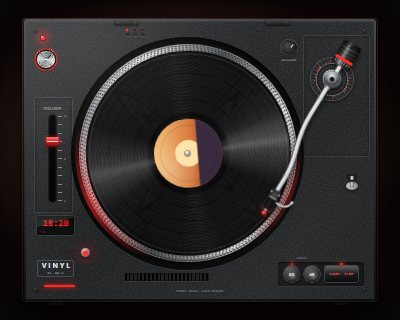
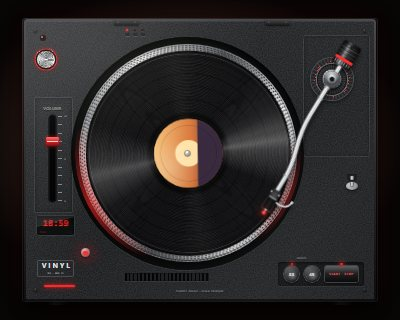
Sleep knob removed: the top-left knob is now the crackle switch with a centred pointer (right = off, left = on) and its lamp shows crackle on/off; tap the parked arm to continue the song; mouse: drag the record off the platter to skip

diff --git a/app.js b/app.js
@@ -313,7 +313,7 @@ async function swapRecord(track, resume) {
       await flight([{ transform: 'none', filter: 'none' },
         { transform: 'scale(1.07)', filter: LIFT, offset: .3 },
         { transform: 'translate(-168%, -8%) rotate(-12deg) scale(1.07)', filter: LIFT }], 950, 'cubic-bezier(.55,0,.75,.45)');
-      S.onPlatter = false; $('disc').classList.add('off'); stash(S.lastOn);
+      S.onPlatter = false; $('disc').classList.add('off'); $('disc').style.translate = ''; stash(S.lastOn);
       if (S.queued) continue; // skipped again while lifting: go straight to the newest record
     }
     await loadArt(t);
@@ -580,8 +580,7 @@ function tickSleepLeft() { // live countdown inside the menu
 }
 function closeSleepMenu() { $('sleepMenu').classList.add('hidden'); clearTimeout(openSleepMenu.t); clearInterval(openSleepMenu.i); }
 $('bTimer').onclick = e => { e.stopPropagation(); openSleepMenu($('bTimer')); };
-$('powerknob').onclick = e => { e.stopPropagation(); openSleepMenu($('powerknob')); };
-document.addEventListener('pointerdown', e => { if (!e.target.closest('#sleepMenu, #bTimer, #powerknob')) closeSleepMenu(); }, true);
+document.addEventListener('pointerdown', e => { if (!e.target.closest('#sleepMenu, #bTimer')) closeSleepMenu(); }, true);
 setInterval(() => { if (sleepAt && Date.now() > sleepAt) { sleepAt = 0; sleepMin = 0; document.documentElement.dataset.sleep = ''; $('bTimer').classList.remove('on'); if (isPlaying()) P.pause(); toast('Sleep timer: good night'); } }, 5000);
 
 /* ---------- tonearm: drag it across the record to jump within the song, or back to its rest to stop ---------- */
@@ -589,11 +588,11 @@ setInterval(() => { if (sleepAt && Date.now() > sleepAt) { sleepAt = 0; sleepMin
   const arm = $('tonearm'), V_ANG = Math.atan2(ARM.V[1], ARM.V[0]) * 180 / Math.PI;
   const angleAt = e => { const r = $('armbase').getBoundingClientRect();
     return clamp(Math.atan2(e.clientY - (r.top + r.height / 2), e.clientX - (r.left + r.width / 2)) * 180 / Math.PI - V_ANG, ARM.rest, ARM_IN + 1); };
-  let grabbed = false;
+  let grabbed = false, tap = null;
   arm.addEventListener('pointerdown', e => {
     if (S.swapping || S.cueing || !S.track) return;
-    e.stopPropagation(); e.preventDefault(); grabbed = true; S.dragging = true;
-    arm.classList.add('drag'); arm.setPointerCapture(e.pointerId); setArm(angleAt(e));
+    e.stopPropagation(); e.preventDefault(); grabbed = true; S.dragging = true; tap = { x: e.clientX, y: e.clientY, was: isPlaying() };
+    arm.classList.add('drag'); try { arm.setPointerCapture(e.pointerId); } catch {} setArm(angleAt(e));
   });
   arm.addEventListener('pointermove', e => {
     if (!grabbed) return; const a = angleAt(e); setArm(a);
@@ -601,6 +600,8 @@ setInterval(() => { if (sleepAt && Date.now() > sleepAt) { sleepAt = 0; sleepMin
   });
   const release = async e => {
     if (!grabbed) return; grabbed = false; arm.classList.remove('drag');
+    if (tap && !tap.was && Math.hypot(e.clientX - tap.x, e.clientY - tap.y) < 6) { // just a tap on the parked arm: continue where it stopped
+      S.dragging = false; renderPlaying(); togglePlay(); return; }
     const a = angleAt(e);
     if (a > ARM_OUT - 1.5) { // dropped on the record: jump there and play
       const ms = clamp((a - ARM_OUT) / (ARM_IN - ARM_OUT), 0, 1) * S.dur;
@@ -611,13 +612,33 @@ setInterval(() => { if (sleepAt && Date.now() > sleepAt) { sleepAt = 0; sleepMin
   arm.addEventListener('pointerup', release); arm.addEventListener('pointercancel', release);
 }
 
+/* mouse: hold the record and drag it off the platter to skip to the next song */
+{ const disc = $('disc'), plat = $('platter'); let st = null;
+  plat.addEventListener('pointerdown', e => {
+    if (e.pointerType !== 'mouse' || e.button !== 0 || !S.onPlatter || S.swapping || S.cueing || !e.target.closest('#disc, #spindle')) return;
+    st = { x: e.clientX, y: e.clientY, moved: false }; try { plat.setPointerCapture(e.pointerId); } catch {}
+  });
+  plat.addEventListener('pointermove', e => {
+    if (!st) return; const dx = e.clientX - st.x, dy = e.clientY - st.y;
+    if (!st.moved && Math.hypot(dx, dy) < 8) return;
+    st.moved = true; disc.classList.add('held'); disc.style.translate = dx + 'px ' + dy + 'px';
+  });
+  const end = e => {
+    if (!st) return; const dx = e.clientX - st.x, dy = e.clientY - st.y, moved = st.moved; st = null; disc.classList.remove('held');
+    if (!moved) return;
+    S.recDragged = true; setTimeout(() => { S.recDragged = false; }, 120);
+    if (Math.hypot(dx, dy) > disc.getBoundingClientRect().width * .3) { toast('Next song'); next(); } // swapRecord lifts the record from where it was dropped
+    else { disc.style.transition = 'translate .25s ease'; disc.style.translate = ''; setTimeout(() => { disc.style.transition = ''; }, 300); }
+  };
+  plat.addEventListener('pointerup', end); plat.addEventListener('pointercancel', end); }
+
 /* ---------- controls: tap background to show, tap record to play, swipe for next/prev ---------- */
 let hideTimer;
 function showControls() { $('controls').classList.remove('hidden'); document.body.classList.add('ctl'); hideControlsSoon(); }
 function hideControlsSoon(now) { clearTimeout(hideTimer); hideTimer = setTimeout(() => { $('controls').classList.add('hidden'); document.body.classList.remove('ctl'); }, now ? 0 : 6000); }
 $('stage').addEventListener('click', e => {
   if (!$('skinSheet').classList.contains('hidden')) return closeSkins();
-  if (e.target.closest('#ctl, #pitch, #tonearm, #vfd, #powerknob, #antiskate, #sleepMenu') || S.dragging) return;
+  if (e.target.closest('#ctl, #pitch, #tonearm, #vfd, #powerknob, #sleepMenu') || S.dragging || S.recDragged) return;
   if (e.target.closest('#platter')) { if (!S.track && !store.get('last')) openSheet(); else togglePlay(); showControls(); }
   else if ($('controls').classList.contains('hidden')) showControls(); else hideControlsSoon(true);
 });
@@ -665,8 +686,10 @@ $('bDust').classList.toggle('on', Sound.on);
 const showCrackle = () => { $('bDust').classList.toggle('on', Sound.on); document.documentElement.dataset.crackle = Sound.on ? 'on' : 'off'; };
 const toggleCrackle = () => { Sound.on = !Sound.on; store.set('crackle', Sound.on); showCrackle(); Sound.init(); Sound.update(isPlaying());
   toast(Sound.on ? 'Vinyl crackle on' : 'Vinyl crackle off'); };
-$('bDust').onclick = toggleCrackle; showCrackle();
-$('antiskate').onclick = e => { e.stopPropagation(); toggleCrackle(); };
+$('bDust').onclick = toggleCrackle;
+{ const q = new URLSearchParams(location.search).get('crackle'); if (q) Sound.on = q === 'on'; } // ?crackle=on|off for previews
+showCrackle();
+$('powerknob').onclick = e => { e.stopPropagation(); toggleCrackle(); };
 if (IS_IOS) $('vol').style.display = 'none'; // iOS ignores web volume; use the iPad volume buttons
 $('vol').value = store.get('vol') ?? 70;
 $('vol').oninput = e => { store.set('vol', +e.target.value); S.player && S.player.setVolume(e.target.value / 100); window.vdpShowVol && window.vdpShowVol(+e.target.value); };

diff --git a/style.css b/style.css
@@ -481,3 +481,15 @@ html[data-sleep="on"] #powerknob { filter: drop-shadow(0 0 calc(var(--u) * .8) r
 html[data-crackle="on"] #antiskate .dial { transform: rotate(-125deg); }
 #sleepMenu .left { padding: 0 12px 8px; font-size: 20px; font-variant-numeric: tabular-nums; color: rgba(233,223,207,.45); }
 #sleepMenu .left.run { color: #ffb038; }
+
+/* ---------- v16: the top-left knob is the crackle switch; its lamp shows crackle on/off ---------- */
+#antiskate { display: none !important; }
+html #powerknob i { left: 47% !important; top: 11% !important; width: 6% !important; height: 33% !important; transform-origin: 50% 123% !important; border-radius: 99px;
+  transform: rotate(90deg) !important; transition: transform .5s cubic-bezier(.3,0,.2,1) !important; }
+html[data-crackle="on"] #powerknob i { transform: rotate(-90deg) !important; }
+html[data-sleep="on"] #powerknob { filter: none; }
+#led { background: var(--led-off) !important; box-shadow: inset 0 0 0 calc(var(--u) * .2) #1c1c1c !important; }
+html[data-crackle="on"] #led { background: rgb(var(--led)) !important; box-shadow: inset 0 0 0 calc(var(--u) * .2) #2a2a2a, 0 0 calc(var(--u) * 2.4) calc(var(--u) * .5) rgba(var(--led), .85) !important; }
+/* the record can be grabbed with the mouse */
+@media (pointer: fine) { #disc { cursor: grab; } #disc.held { cursor: grabbing; } }
+#disc.held { z-index: 3; }

diff --git a/index.html b/index.html
@@ -76,7 +76,7 @@
 
     <i class="hinge hl"></i><i class="hinge hr"></i>
     <div id="led"></div>
-    <div id="powerknob"><i></i><b></b><span class="kl"><em>33</em><em>45</em><em>78</em></span></div>
+    <div id="powerknob" title="Vinyl crackle"><i></i><b></b><span class="kl"><em>33</em><em>45</em><em>78</em></span></div>
     <div id="pitch"><span class="lab">VOLUME</span><b class="ps t">10</b><b class="ps m">5</b><b class="ps b">0</b><div class="slot"><div class="fader"></div></div></div>
     <div id="vfd" title="Tap: clock / time left"><span class="ghost">88:88</span><span id="vfdText"></span><i id="vfdMode"></i><i id="vfdSleep">SLEEP</i></div>
     <div id="badge"><b>VINYL</b><span>DECO · HI-FI</span></div>
@@ -98,7 +98,6 @@
 
     <div id="target"><i></i></div>
     <div id="armrest"><i></i></div>
-    <div id="antiskate" title="Vinyl crackle"><div class="dial"></div>CRACKLE</div>
     <div id="armbase"><i class="scale"></i><div class="ring"></div><i class="hub"></i><i class="lift"><b></b></i></div>
     <div id="tonearm">
       <svg viewBox="-8 -12 20 56" width="20" height="56" aria-hidden="true">
